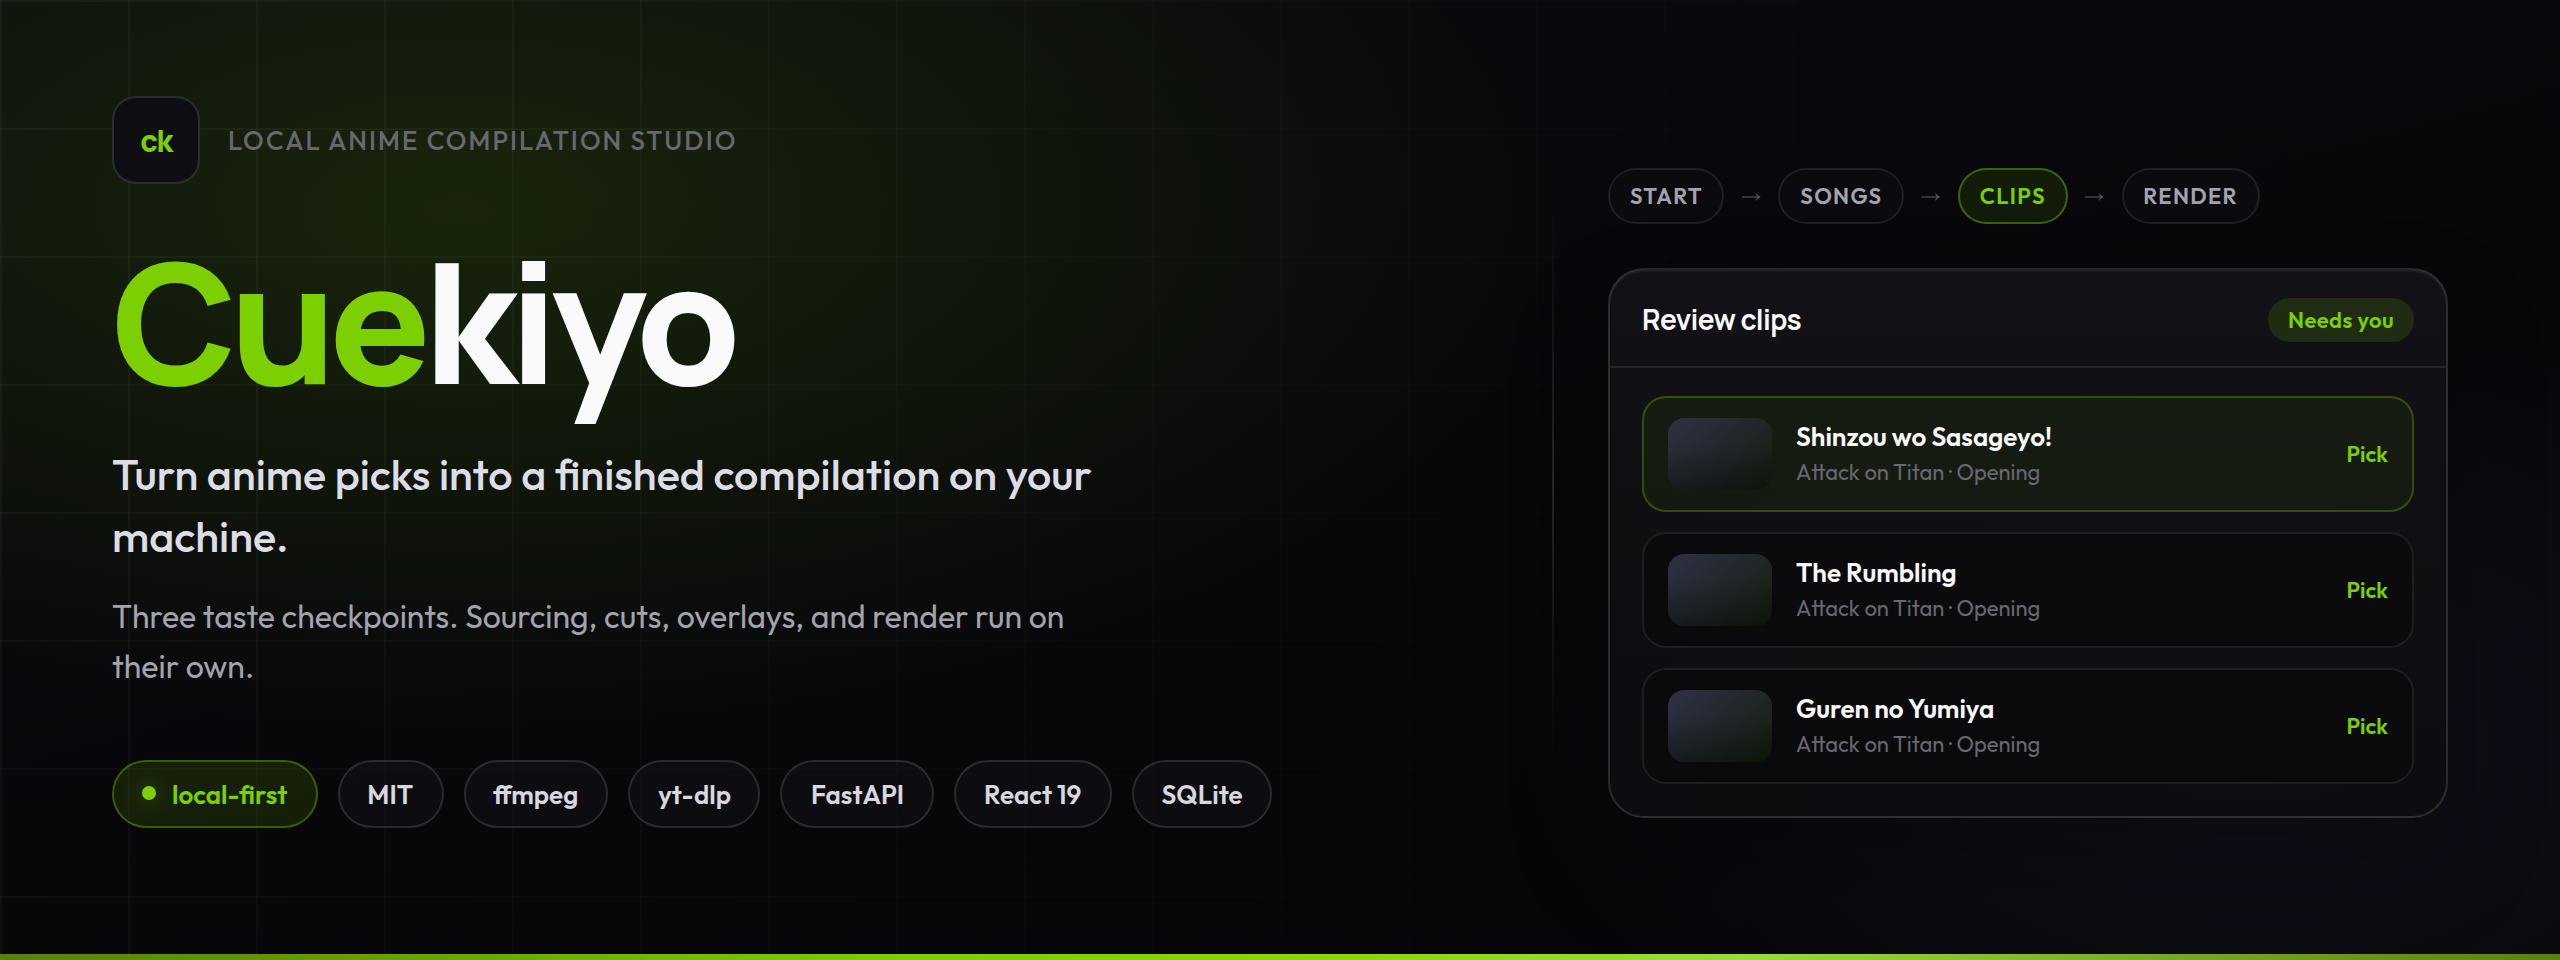
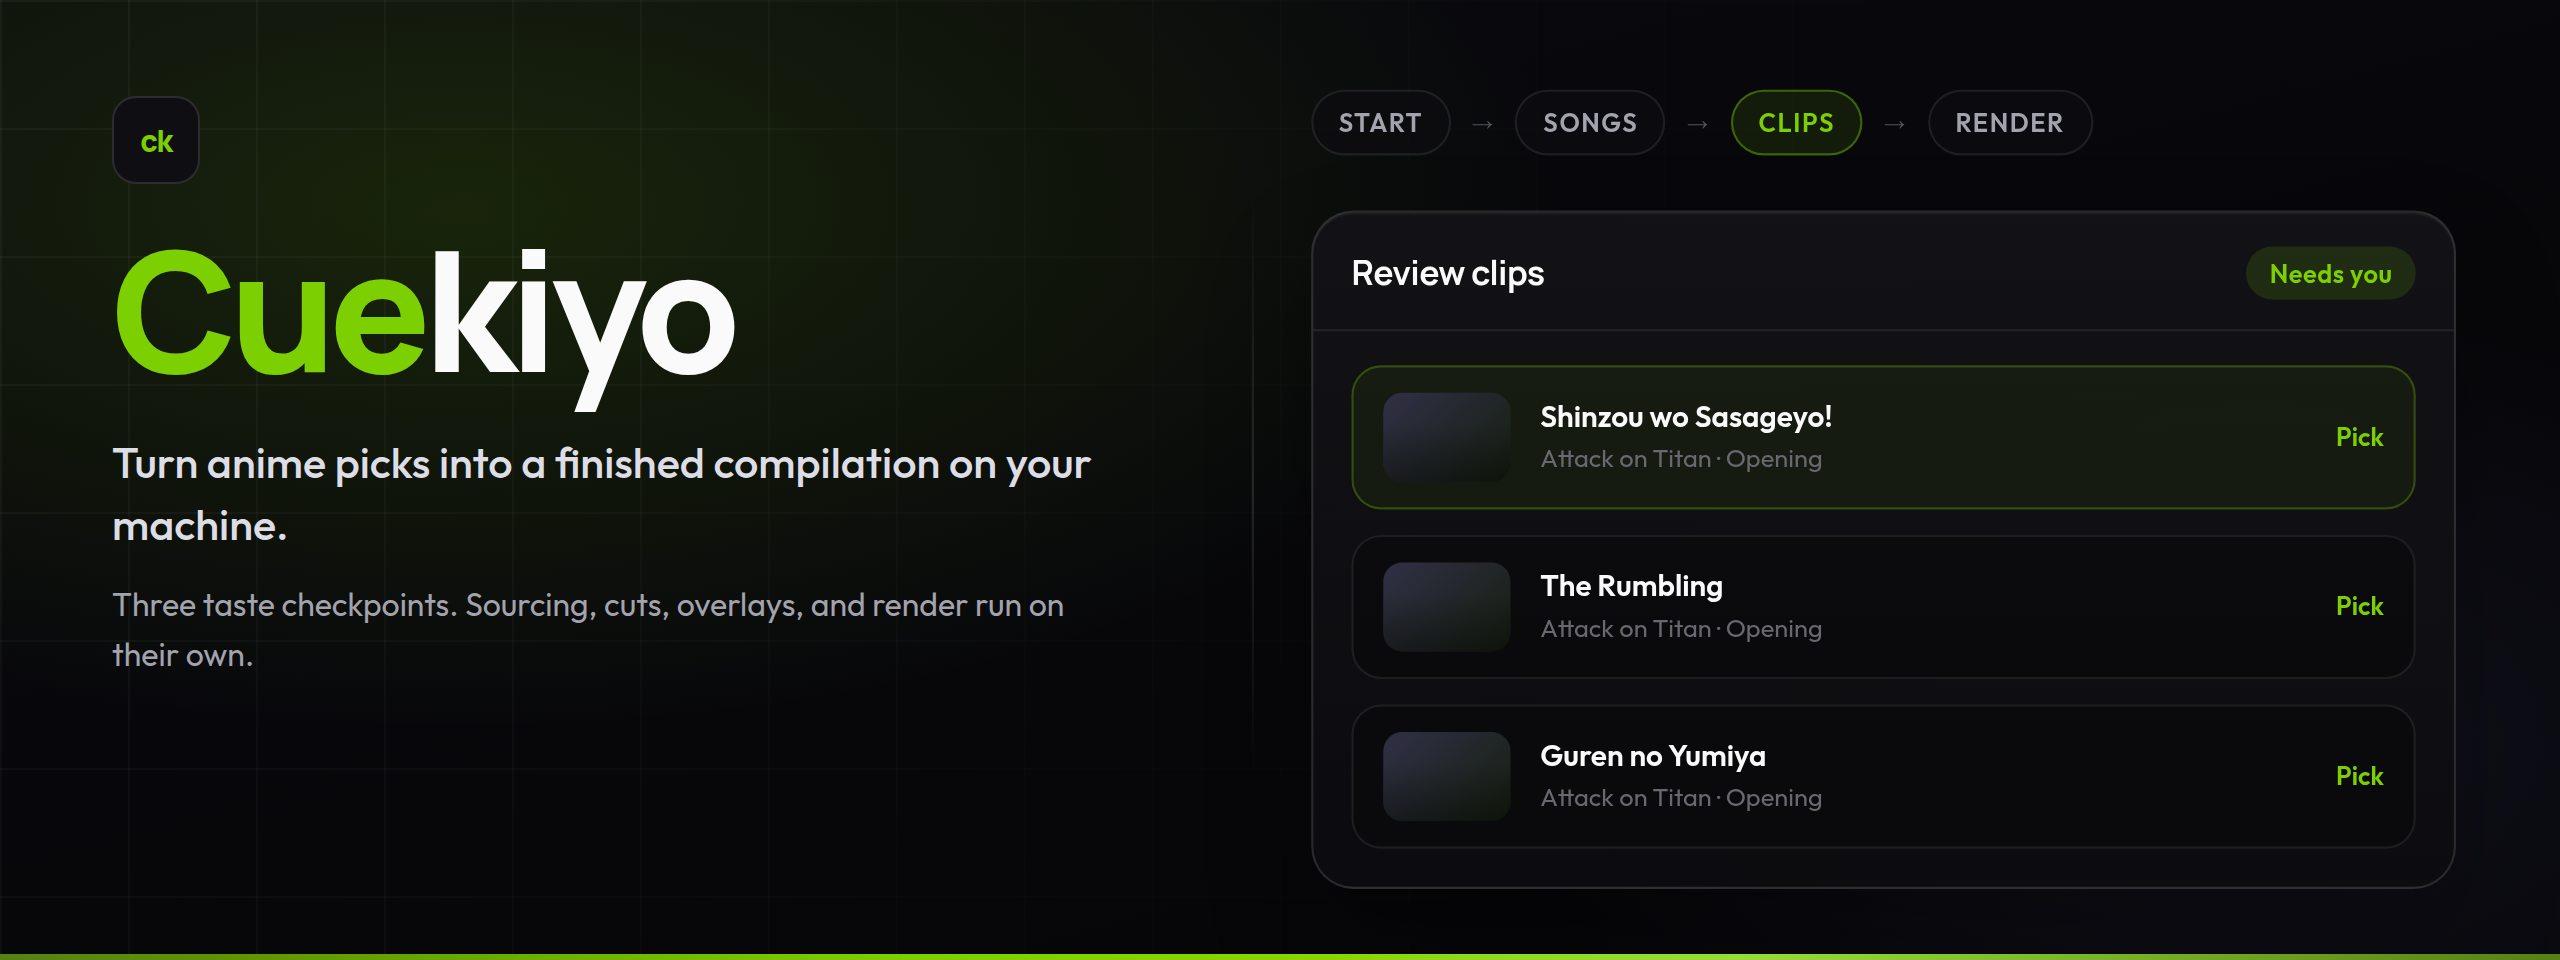
docs: simplify README cover and enlarge UI mock
Drop eyebrow label and stack tags from the hero; give the review-clips
panel more space and scale.

diff --git a/docs/assets/cover.html b/docs/assets/cover.html
@@ -50,8 +50,8 @@
         width: 1280px;
         height: 480px;
         display: grid;
-        grid-template-columns: 1fr 420px;
-        padding: 48px 56px 44px;
+        grid-template-columns: 1fr 540px;
+        padding: 48px 52px 44px 56px;
         isolation: isolate;
       }
 
@@ -104,7 +104,6 @@
       .brand-top {
         display: flex;
         align-items: center;
-        gap: 14px;
       }
 
       .mark {
@@ -122,16 +121,8 @@
         color: var(--primary);
       }
 
-      .eyebrow {
-        font-size: 13px;
-        font-weight: 500;
-        letter-spacing: 0.08em;
-        text-transform: uppercase;
-        color: var(--subtle);
-      }
-
       .wordmark {
-        margin-top: 28px;
+        margin-top: 22px;
         font-family: var(--font-heading);
         font-size: clamp(4rem, 7vw, 5.25rem);
         font-weight: 800;
@@ -164,48 +155,15 @@
         color: var(--muted);
       }
 
-      .tags {
-        display: flex;
-        flex-wrap: wrap;
-        gap: 10px;
-        margin-top: 34px;
-      }
-
-      .tag {
-        display: inline-flex;
-        align-items: center;
-        gap: 8px;
-        padding: 8px 14px;
-        border-radius: 999px;
-        border: 1px solid var(--border-strong);
-        background: oklch(0.18 0.008 286 / 0.72);
-        font-size: 13px;
-        font-weight: 600;
-        color: oklch(0.88 0.01 286);
-        white-space: nowrap;
-      }
-
-      .tag.primary {
-        border-color: oklch(0.768 0.233 130.85 / 0.35);
-        background: oklch(0.768 0.233 130.85 / 0.12);
-        color: var(--primary);
-      }
-
-      .tag-dot {
-        width: 7px;
-        height: 7px;
-        border-radius: 50%;
-        background: var(--primary);
-        box-shadow: 0 0 10px var(--primary-glow);
-      }
-
       .preview {
         position: relative;
         display: flex;
         flex-direction: column;
         justify-content: center;
-        gap: 14px;
-        padding-top: 8px;
+        gap: 16px;
+        padding-top: 4px;
+        transform: scale(1.06);
+        transform-origin: center right;
       }
 
       .preview::before {
@@ -227,9 +185,9 @@
       .flow {
         display: flex;
         align-items: center;
-        gap: 8px;
-        margin-bottom: 8px;
-        font-size: 11px;
+        gap: 10px;
+        margin-bottom: 10px;
+        font-size: 12px;
         font-weight: 600;
         letter-spacing: 0.06em;
         text-transform: uppercase;
@@ -240,7 +198,7 @@
         display: inline-flex;
         align-items: center;
         gap: 6px;
-        padding: 6px 10px;
+        padding: 7px 12px;
         border-radius: 999px;
         border: 1px solid var(--border);
         background: oklch(0.16 0.007 286 / 0.8);
@@ -260,7 +218,7 @@
 
       .card {
         border: 1px solid var(--border-strong);
-        border-radius: 18px;
+        border-radius: 20px;
         background: linear-gradient(
           180deg,
           oklch(0.19 0.008 286 / 0.95),
@@ -277,21 +235,21 @@
         align-items: center;
         justify-content: space-between;
         gap: 12px;
-        padding: 14px 16px 12px;
+        padding: 16px 18px 14px;
         border-bottom: 1px solid var(--border);
       }
 
       .card-title {
         font-family: var(--font-heading);
-        font-size: 14px;
+        font-size: 16px;
         font-weight: 700;
         letter-spacing: -0.02em;
       }
 
       .pill {
-        padding: 4px 10px;
+        padding: 5px 11px;
         border-radius: 999px;
-        font-size: 11px;
+        font-size: 12px;
         font-weight: 700;
         letter-spacing: 0.02em;
         background: oklch(0.768 0.233 130.85 / 0.14);
@@ -299,18 +257,18 @@
       }
 
       .card-body {
-        padding: 14px 16px 16px;
+        padding: 16px 18px 18px;
         display: grid;
-        gap: 10px;
+        gap: 12px;
       }
 
       .track {
         display: grid;
-        grid-template-columns: 52px 1fr auto;
-        gap: 12px;
+        grid-template-columns: 60px 1fr auto;
+        gap: 14px;
         align-items: center;
-        padding: 10px 12px;
-        border-radius: 12px;
+        padding: 12px 14px;
+        border-radius: 14px;
         border: 1px solid var(--border);
         background: oklch(0.14 0.006 286 / 0.65);
       }
@@ -321,9 +279,9 @@
       }
 
       .thumb {
-        width: 52px;
-        height: 36px;
-        border-radius: 8px;
+        width: 60px;
+        height: 42px;
+        border-radius: 9px;
         background: linear-gradient(
           135deg,
           oklch(0.32 0.04 286),
@@ -349,7 +307,7 @@
       }
 
       .track-title {
-        font-size: 13px;
+        font-size: 14px;
         font-weight: 600;
         line-height: 1.25;
         white-space: nowrap;
@@ -359,12 +317,12 @@
 
       .track-meta {
         margin-top: 3px;
-        font-size: 11px;
+        font-size: 12px;
         color: var(--subtle);
       }
 
       .track-action {
-        font-size: 11px;
+        font-size: 12px;
         font-weight: 700;
         color: var(--primary);
       }
@@ -393,7 +351,6 @@
         <div>
           <div class="brand-top">
             <div class="mark">ck</div>
-            <p class="eyebrow">Local anime compilation studio</p>
           </div>
 
           <h1 class="wordmark">
@@ -407,16 +364,6 @@
             Three taste checkpoints. Sourcing, cuts, overlays, and render run
             on their own.
           </p>
-
-          <div class="tags">
-            <span class="tag primary"><span class="tag-dot"></span>local-first</span>
-            <span class="tag">MIT</span>
-            <span class="tag">ffmpeg</span>
-            <span class="tag">yt-dlp</span>
-            <span class="tag">FastAPI</span>
-            <span class="tag">React 19</span>
-            <span class="tag">SQLite</span>
-          </div>
         </div>
       </section>
 